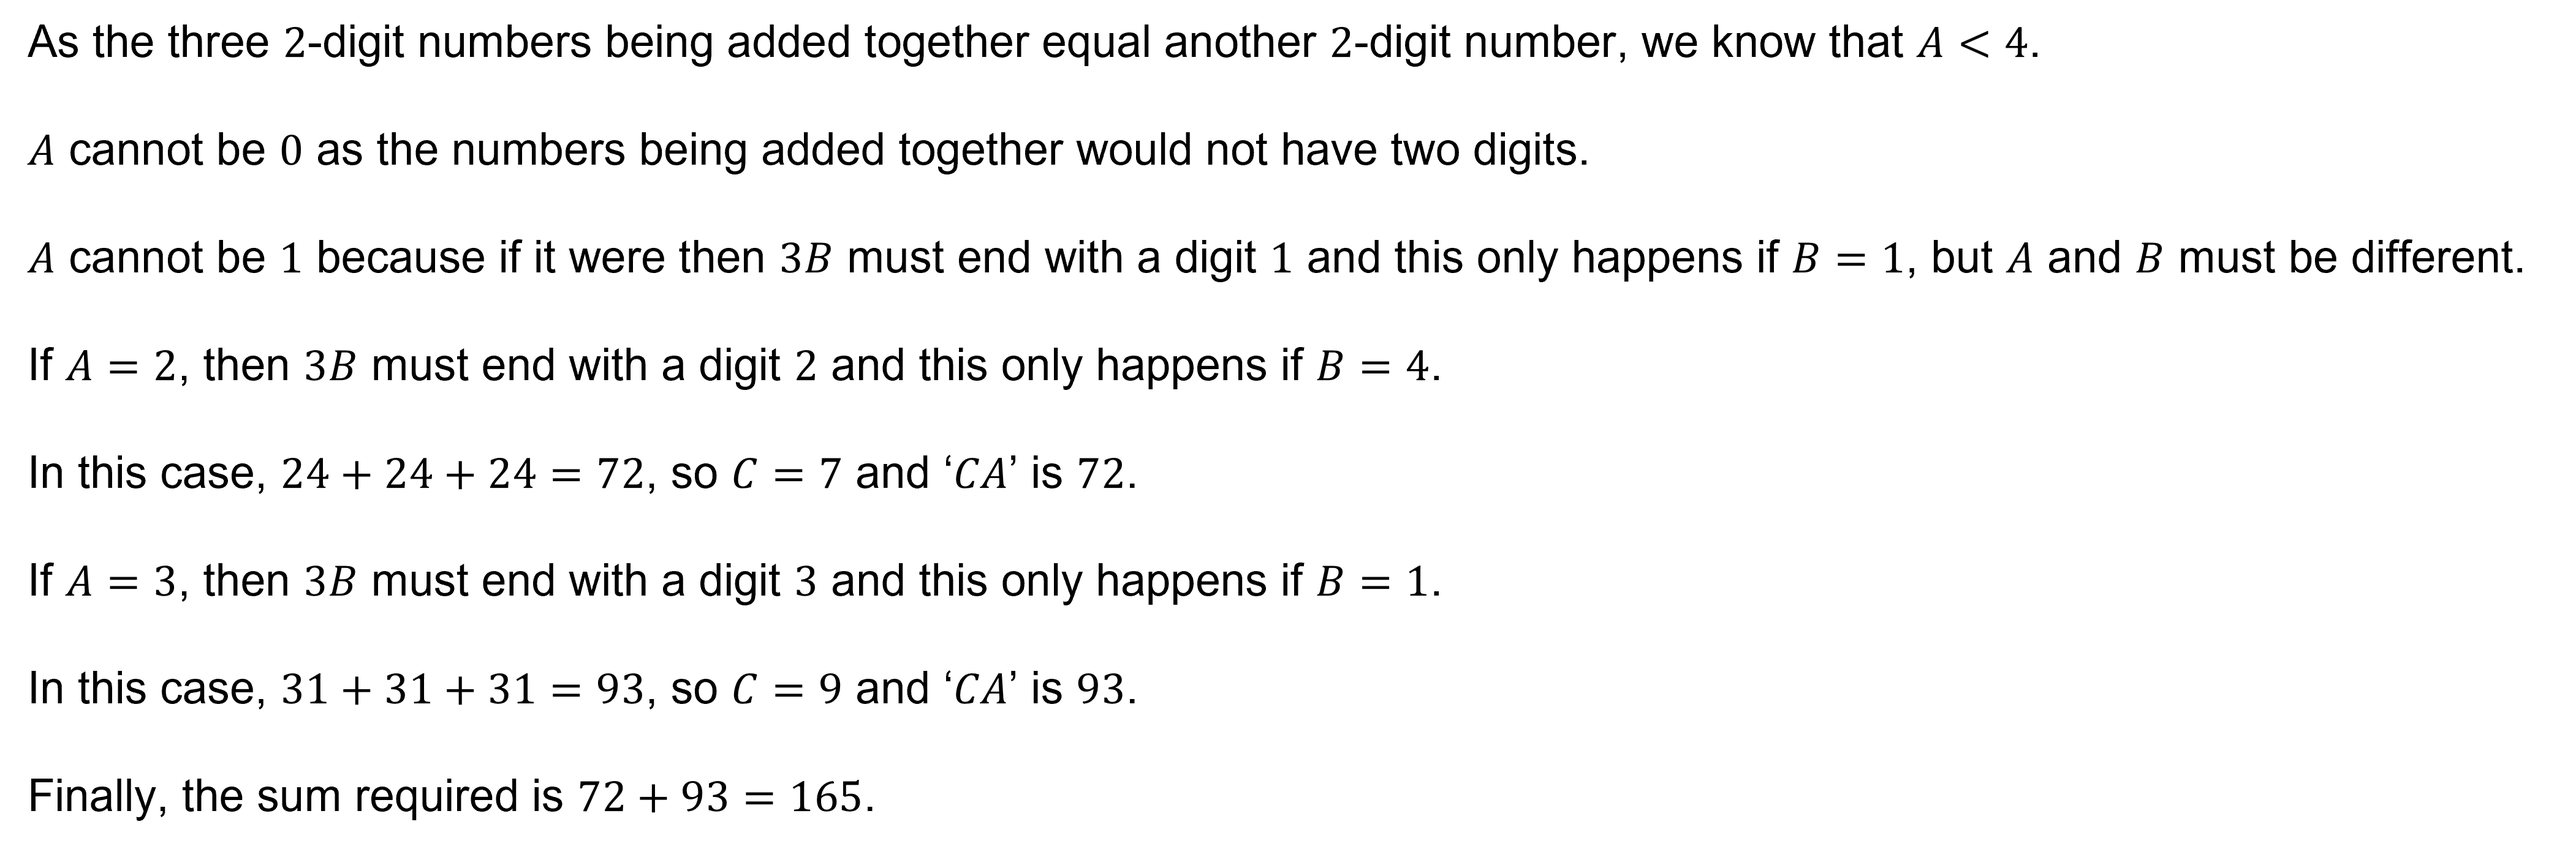
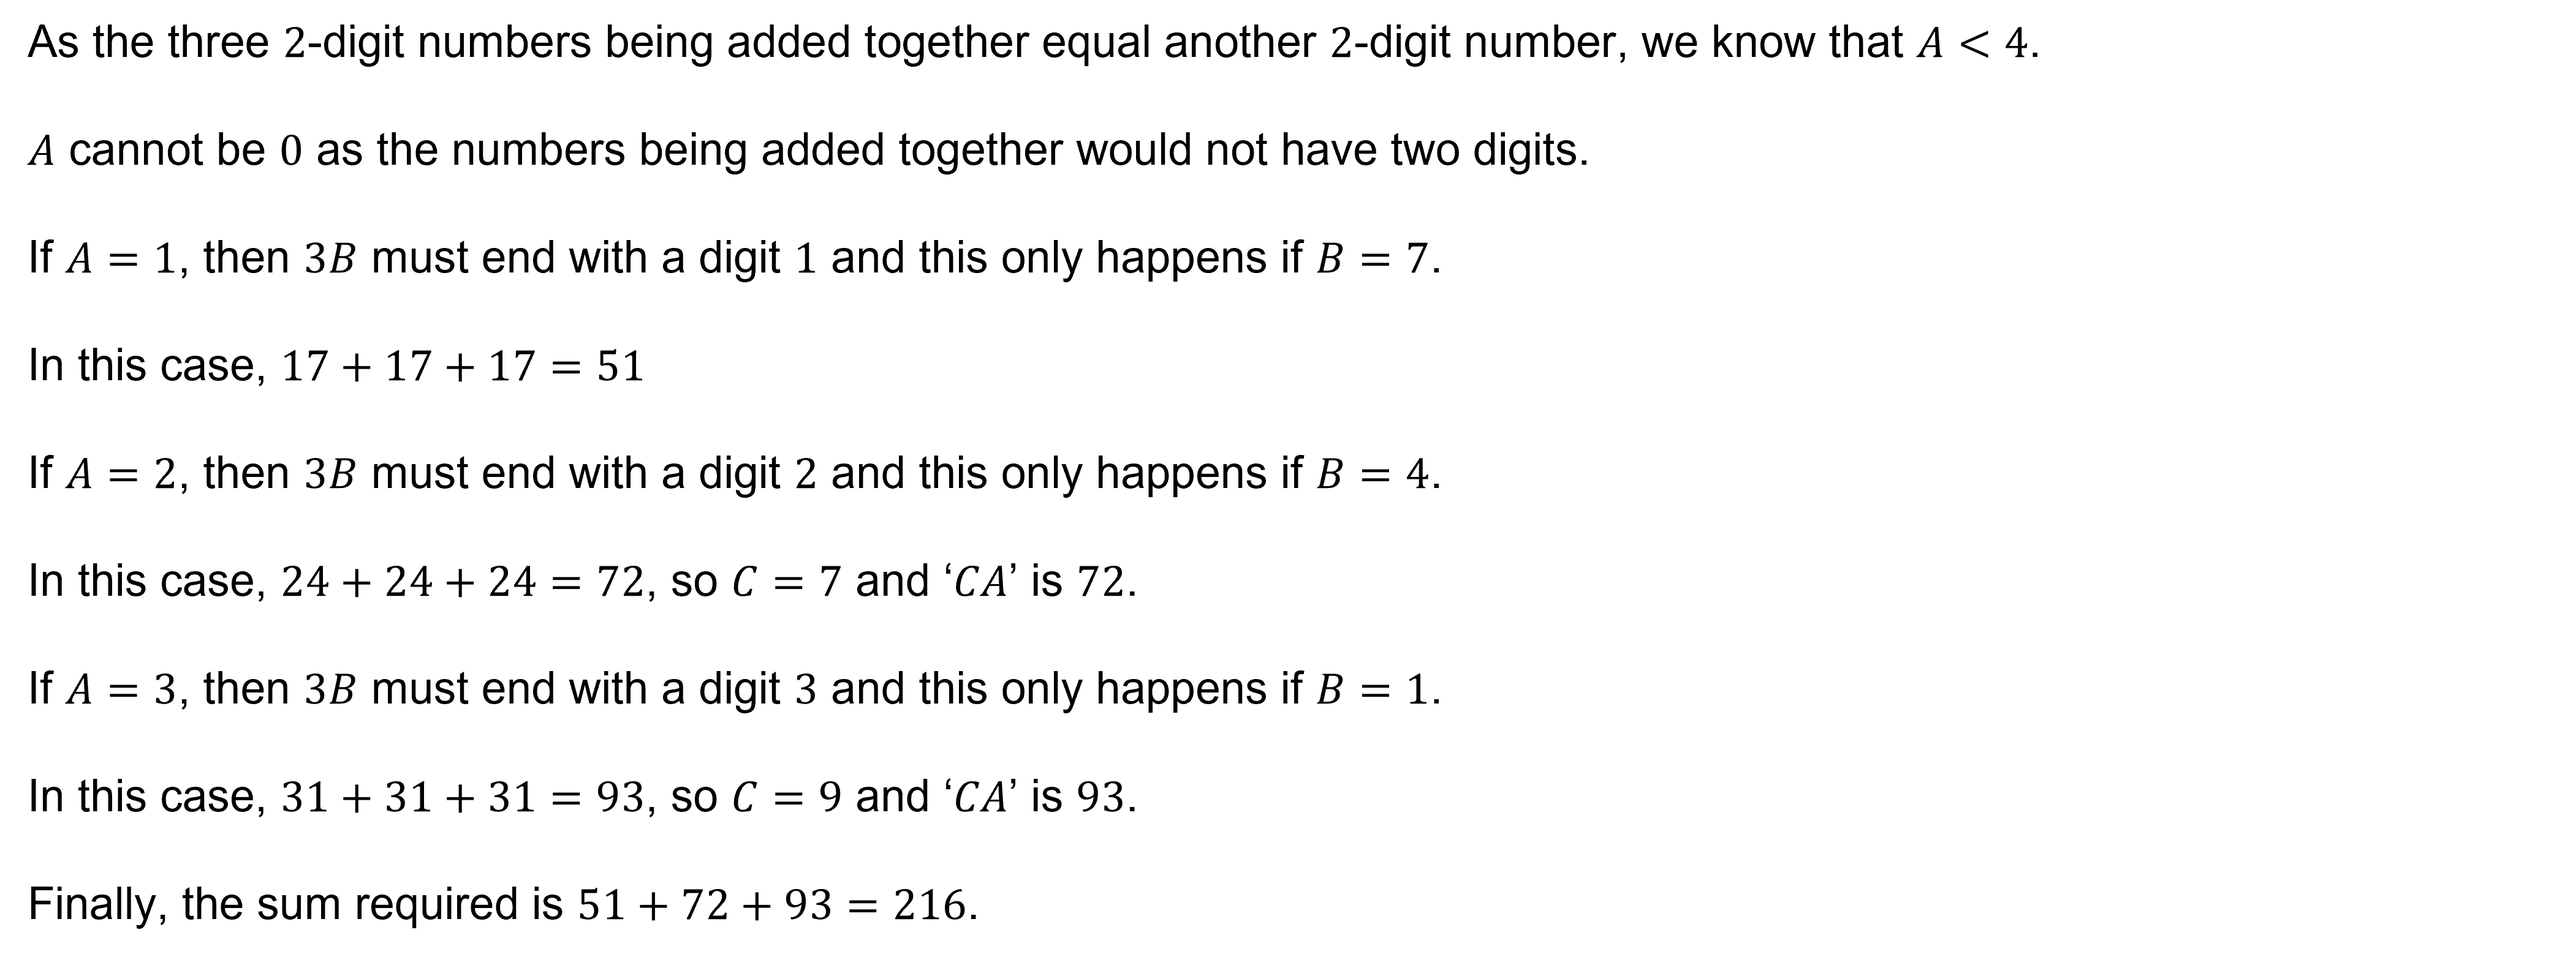
Fixing Y8 week 7 hwk

diff --git a/scripts/update-results.js b/scripts/update-results.js
@@ -3,10 +3,10 @@ const serviceAccount = require('../private/service-account.json');
 
 
 // ---------------------
-const PG = 'academy-5-week-2';
-const QUESTION = 'p_4_2_0';
-const IF_ANSWER = '4444344';
-const THEN_ANSWER = '4444344';
+const PG = 'academy-8sum-week-7';
+const QUESTION = 'p_1_1_0';
+const IF_ANSWER = '216';
+const THEN_ANSWER = '216';
 const ADD_POINTS = 2;
 // ---------------------
 

diff --git a/pages/academy-8sum-week-7.md b/pages/academy-8sum-week-7.md
@@ -20,7 +20,7 @@ We will also be running a weekly homework review session (look out for our email
 ![](/resources/academy-8sum-week-7/q1.png){image align="center"}  
 
 ::: problem id=1_1 marks=2
-<input type="number" solution="165"/>  
+<input type="number" solution="216"/>  
 
 ---
 
